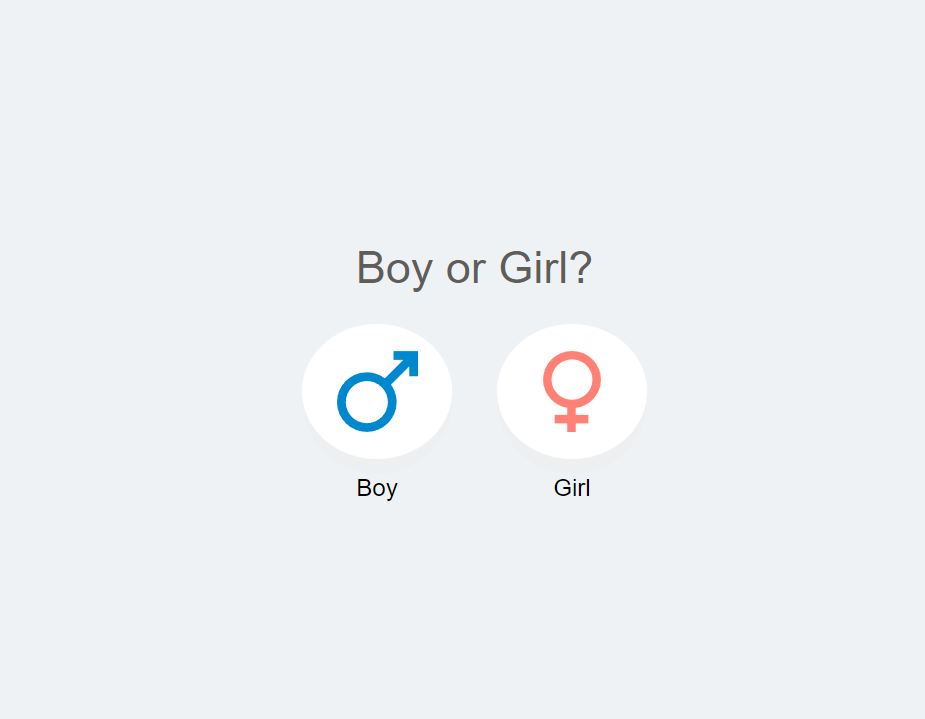
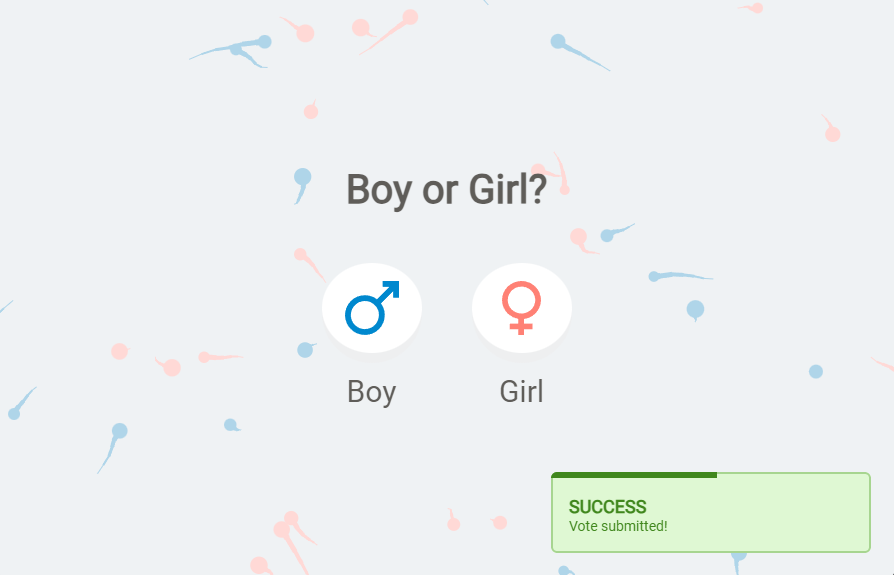
Readme

diff --git a/src/views/VoteView.vue b/src/views/VoteView.vue
@@ -1,25 +1,50 @@
 <script setup>
   import {getLocale} from '../locale.js'
   import { Config } from '../config.js';
-  import Particles from '../components/Particles.vue'
-  
+  import Particles from '../components/Particles.vue';
+  import AWN from "awesome-notifications"
+
+  let allowVote = true;
+  let notifier = new AWN({enabled: false});
+    
   async function vote(option) {
+    
+    if (!allowVote) {
+      notifier.alert(getLocale("cannotVote"))
+      return;
+    }
+
+    allowVote = false;
+
     const data = {
       vote: option
     };
 
-    await fetch('http://' + Config.api + '/vote', {method: 'POST', headers: {
+    const req = fetch('http://' + Config.api + '/vote', {method: 'POST', headers: {
       'Accept': 'application/json',
       'Content-Type': 'application/json'
-    }, body: JSON.stringify(data)});
+    }, body: JSON.stringify(data)})
 
-    alert(getLocale("voteSubmitted"));
+    
+    await notifier.asyncBlock(req, null, null, getLocale("sending"));
+    notifier.success(getLocale("voteSubmitted"));
+
+    setTimeout(() => {
+      allowVote = true;
+    }, Config.timeBetweenVotes * 1000);
   }
 </script>
 
 <style scoped>
   .title {
+    font-size: 40px;
+    font-weight: bold;
+    color: var(--text);
+  }
+
+  .button-text {
     font-size: 30px;
+    font-weight: normal;
     color: var(--text);
   }
 
@@ -28,9 +53,45 @@
     flex-direction: column;
     align-items: center;
     justify-content: center;
-    gap: 20px;
+    gap: 50px;
     height: 100%;
     width: 100%;
+  }
+
+  .button-group {
+    display:flex;
+    flex-direction: row;
+    gap: 50px;
+  }
+
+  .button-container {
+    display:flex;
+    flex-direction: column;
+    align-items: center;
+    gap: 10px;
+  }
+
+  .button {
+    background-color: var(--white-dirty);
+    border-radius: 50%;
+    width: 100px;
+    height: 100px;
+  }
+
+  .button-shadow {
+    display: flex;
+    align-items: center;
+    justify-content: center;
+    background-color: var(--white);
+    border-radius: 50%;
+    width: 100px;
+    height: calc(100px - 10px);
+  }
+
+  .button-image {
+    width: 60%;
+    height: 60%;
+    object-fit: contain;
   }
 
 </style>
@@ -39,32 +100,32 @@
   <div class="container">
     <div class="title">{{getLocale("boyOrGirl")}}</div>
 
-    <div style="display:flex; flex-direction: row; gap: 30px;">
+    <div class="button-group">
 
     <!-- Boy -->
-    <div @click="vote('boy')" style="display:flex; flex-direction: column; align-items: center;">
+    <div @click="vote('boy')" class="button-container">
       <!-- Gender indicator-->
-      <div style="background-color: var(--white-dirty); border-radius: 50%; width: 100px; height: 100px;">
-        <div style="display: flex; align-items: center;  justify-content: center; background-color: var(--white); border-radius: 50%; width: 100px; height: calc(100px - 10px); ">
-          <img style="width: 60%; height: 60%; object-fit: contain;" src="../assets/male.svg"/>
+      <div class="button">
+        <div class="button-shadow">
+          <img class="button-image" src="../assets/male.svg"/>
         </div>
       </div>
 
       <!-- Text -->
-      <div>{{getLocale("boy")}}</div>
+      <div class="button-text">{{getLocale("boy")}}</div>
     </div>
 
     <!-- Girl -->
-    <div @click="vote('girl')" style="display:flex; flex-direction: column; align-items: center;">
+    <div @click="vote('girl')" class="button-container">
       <!-- Gender indicator-->
-      <div style="background-color: var(--white-dirty); border-radius: 50%; width: 100px; height: 100px;">
-        <div style="display: flex; align-items: center;  justify-content: center; background-color: var(--white); border-radius: 50%; width: 100px; height: calc(100px - 10px); ">
-          <img style="width: 60%; height: 60%; object-fit: contain;" src="../assets/female.svg"/>
+      <div class="button">
+        <div class="button-shadow">
+          <img class="button-image" src="../assets/female.svg"/>
         </div>
       </div>
 
       <!-- Text -->
-      <div>{{getLocale("girl")}}</div>
+      <div class="button-text">{{getLocale("girl")}}</div>
     </div>
   </div>
   </div>

diff --git a/src/views/ResultsView.vue b/src/views/ResultsView.vue
@@ -40,7 +40,8 @@
 
 <style scoped>
   .title {
-    font-size: 30px;
+    font-size: 40px;
+    font-weight: bold;
     color: var(--text);
   }
 
@@ -58,6 +59,50 @@
     font-size: 40px;
     color: var(--white);
   }
+
+  .gender-indicator {
+    background-color: var(--white-dirty);
+    border-radius: 50%;
+    width: 100px;
+    height: 100px;
+  }
+
+  .gender-indicator-shadow {
+    display: flex;
+    align-items: center;
+    justify-content: center;
+    background-color: var(--white);
+    border-radius: 50%;
+    width: 100px;
+    height: calc(100px - 10px); 
+  }
+
+  .gender-indicator-image {
+    width: 60%;
+    height: 60%;
+    object-fit: contain;
+  }
+
+  .gender-progress-bar-container {
+    width: 500px;
+    height: 80px;
+  }
+
+  .gender-progress-bar {
+    height: 80px;
+    border-radius: 15px;
+  }
+
+  .gender-progress-bar-shadow {
+    display:flex;
+    align-items: center;
+    justify-content: center;
+    width: 100%;
+    height: calc(100% - 5px);
+    border-radius: 15px;
+  }
+
+
 </style>
 
 <template>
@@ -67,16 +112,16 @@
     <!-- Boy -->
     <div style="display:flex; flex-direction: row; gap: 30px;">
       <!-- Gender indicator-->
-      <div style="background-color: var(--white-dirty); border-radius: 50%; width: 100px; height: 100px;">
-        <div style="display: flex; align-items: center;  justify-content: center; background-color: var(--white); border-radius: 50%; width: 100px; height: calc(100px - 10px); ">
-          <img style="width: 60%; height: 60%; object-fit: contain;" src="../assets/male.svg"/>
+      <div class="gender-indicator">
+        <div class="gender-indicator-shadow">
+          <img class="gender-indicator-image" src="../assets/male.svg"/>
         </div>
       </div>
       
       <!-- Progress bar -->
-      <div style="width: 400px; height: 80px;">
-        <div ref="boyBar" style="height: 80px; background-color: var(--blue-hover); border-radius: 15px;">
-          <div style="display:flex; align-items: center; justify-content: center; width: 100%; height: calc(100% - 5px); background-color: var(--blue); border-radius: 15px;">
+      <div class="gender-progress-bar-container">
+        <div ref="boyBar" class="gender-progress-bar" style="background-color: var(--blue-hover);">
+          <div class="gender-progress-bar-shadow" style="background-color: var(--blue);">
             <div class="result-text">{{boyCount}}</div>
           </div>
         </div>
@@ -86,17 +131,16 @@
     <!-- Girl -->
     <div style="display:flex; flex-direction: row; gap: 30px;">
       <!-- Gender indicator-->
-      <div style="background-color: var(--white-dirty); border-radius: 50%; width: 100px; height: 100px;">
-        <div style="display: flex; align-items: center;  justify-content: center; background-color: var(--white); border-radius: 50%; width: 100px; height: calc(100px - 10px); ">
-          <img style="width: 60%; height: 60%; object-fit: contain;" src="../assets/female.svg"/>
+      <div class="gender-indicator">
+        <div class="gender-indicator-shadow">
+          <img class="gender-indicator-image" src="../assets/female.svg"/>
         </div>
       </div>
       
       <!-- Progress bar -->
-      <div style="width: 400px; height: 80px;">
-
-        <div ref="girlBar" style="height: 80px; background-color: var(--pink-hover); border-radius: 15px;">
-          <div style="display:flex; align-items: center; justify-content: center; width: 100%; height: calc(100% - 5px); background-color: var(--pink); border-radius: 15px;">
+      <div class="gender-progress-bar-container">
+        <div ref="girlBar" class="gender-progress-bar" style="background-color: var(--pink-hover);">
+          <div class="gender-progress-bar-shadow" style="background-color: var(--pink);">
             <div class="result-text">{{girlCount}}</div>
           </div>
         </div>

diff --git a/src/components/Particles.vue b/src/components/Particles.vue
@@ -38,7 +38,7 @@
         const createEmitter = (color) => {
             const emitter = new Proton.Emitter();
             emitter.damping = 0.008;
-            emitter.rate = new Proton.Rate(50);
+            emitter.rate = new Proton.Rate(20);
             emitter.addInitialize(new Proton.Mass(1));
             emitter.addInitialize(new Proton.Radius(5, 9));
             emitter.addInitialize(
@@ -74,7 +74,7 @@
         this.proton = proton;
       },
       createRenderer(canvas) {
-        const jointCount = 12;
+        const tailSize = 12;
         const delayTime = 5;
         const context = canvas.getContext("2d");
         const renderer = new Proton.CanvasRenderer(canvas);
@@ -100,7 +100,7 @@
         const fillPointsData = (particle) => {
           particle.data.points.unshift(particle.p.y);
           particle.data.points.unshift(particle.p.x);
-          if (particle.data.points.length > jointCount) {
+          if (particle.data.points.length > tailSize) {
             particle.data.points.pop();
             particle.data.points.pop();
           }

diff --git a/src/locale.js b/src/locale.js
@@ -10,7 +10,9 @@ export const Locale = {
         "boy": "Menino",
         "girl": "Menina",
         "boyOrGirl": "Menino ou Menina?",
-        "voteSubmitted": "Voto submetido!"
+        "voteSubmitted": "Voto submetido!",
+        "sending": "A enviar",
+        "cannotVote": "Não é possível votar mais de uma vez."
     },
     en: {
         "results": "Results",
@@ -18,7 +20,9 @@ export const Locale = {
         "boy": "Boy",
         "girl": "Girl",
         "boyOrGirl": "Boy or Girl?",
-        "voteSubmitted": "Vote submitted!"
+        "voteSubmitted": "Vote submitted!",
+        "sending": "Sending",
+        "cannotVote": "Cannot vote more than once."
     }
 };
 

diff --git a/src/main.css b/src/main.css
@@ -1,11 +1,13 @@
+@import '../node_modules/awesome-notifications/dist/style.css';
+@import "@fontsource/roboto";
+
 :root {
     font-family: 'Roboto', sans-serif;
-
+    
     --background: #EFF2F4;
 
     --white: #ffffff;
     --white-dirty: #eeeff0;
-
 
     --text: #5f5d59;
     --text-alt: #677795;
@@ -19,3 +21,8 @@
     --blue-light: #afd5e9;
 }
 
+body {
+    -webkit-user-select: none;
+    -ms-user-select: none; 
+    user-select: none;
+}

diff --git a/index.html b/index.html
@@ -3,7 +3,7 @@
   <head>
     <meta charset="UTF-8">
     <link rel="icon" href="/favicon.ico">
-    <meta name="viewport" content="width=device-width, initial-scale=1.0">
+    <meta name="viewport" content="width=device-width, initial-scale=1.0, maximum-scale=1.0, user-scalable=0"/>
     <title>Baby Poll</title>
   </head>
   <body id="app" style="margin: 0; width: 100%; height: 100%; top: 0px; left: 0px; position: absolute; overflow: hidden;">

diff --git a/src/config.js b/src/config.js
@@ -3,7 +3,12 @@
  * Configuration file for the application.
  */
 export const Config = {
-  locale: "pt",
+  // The locale to be used.
+  locale: "en",
+  
+  // Time between votes in seconds.
+  timeBetweenVotes: 10,
 
-  api: "localhost:3000",
+  // The URL of the API.
+  api: "192.168.0.109:3000"
 };
